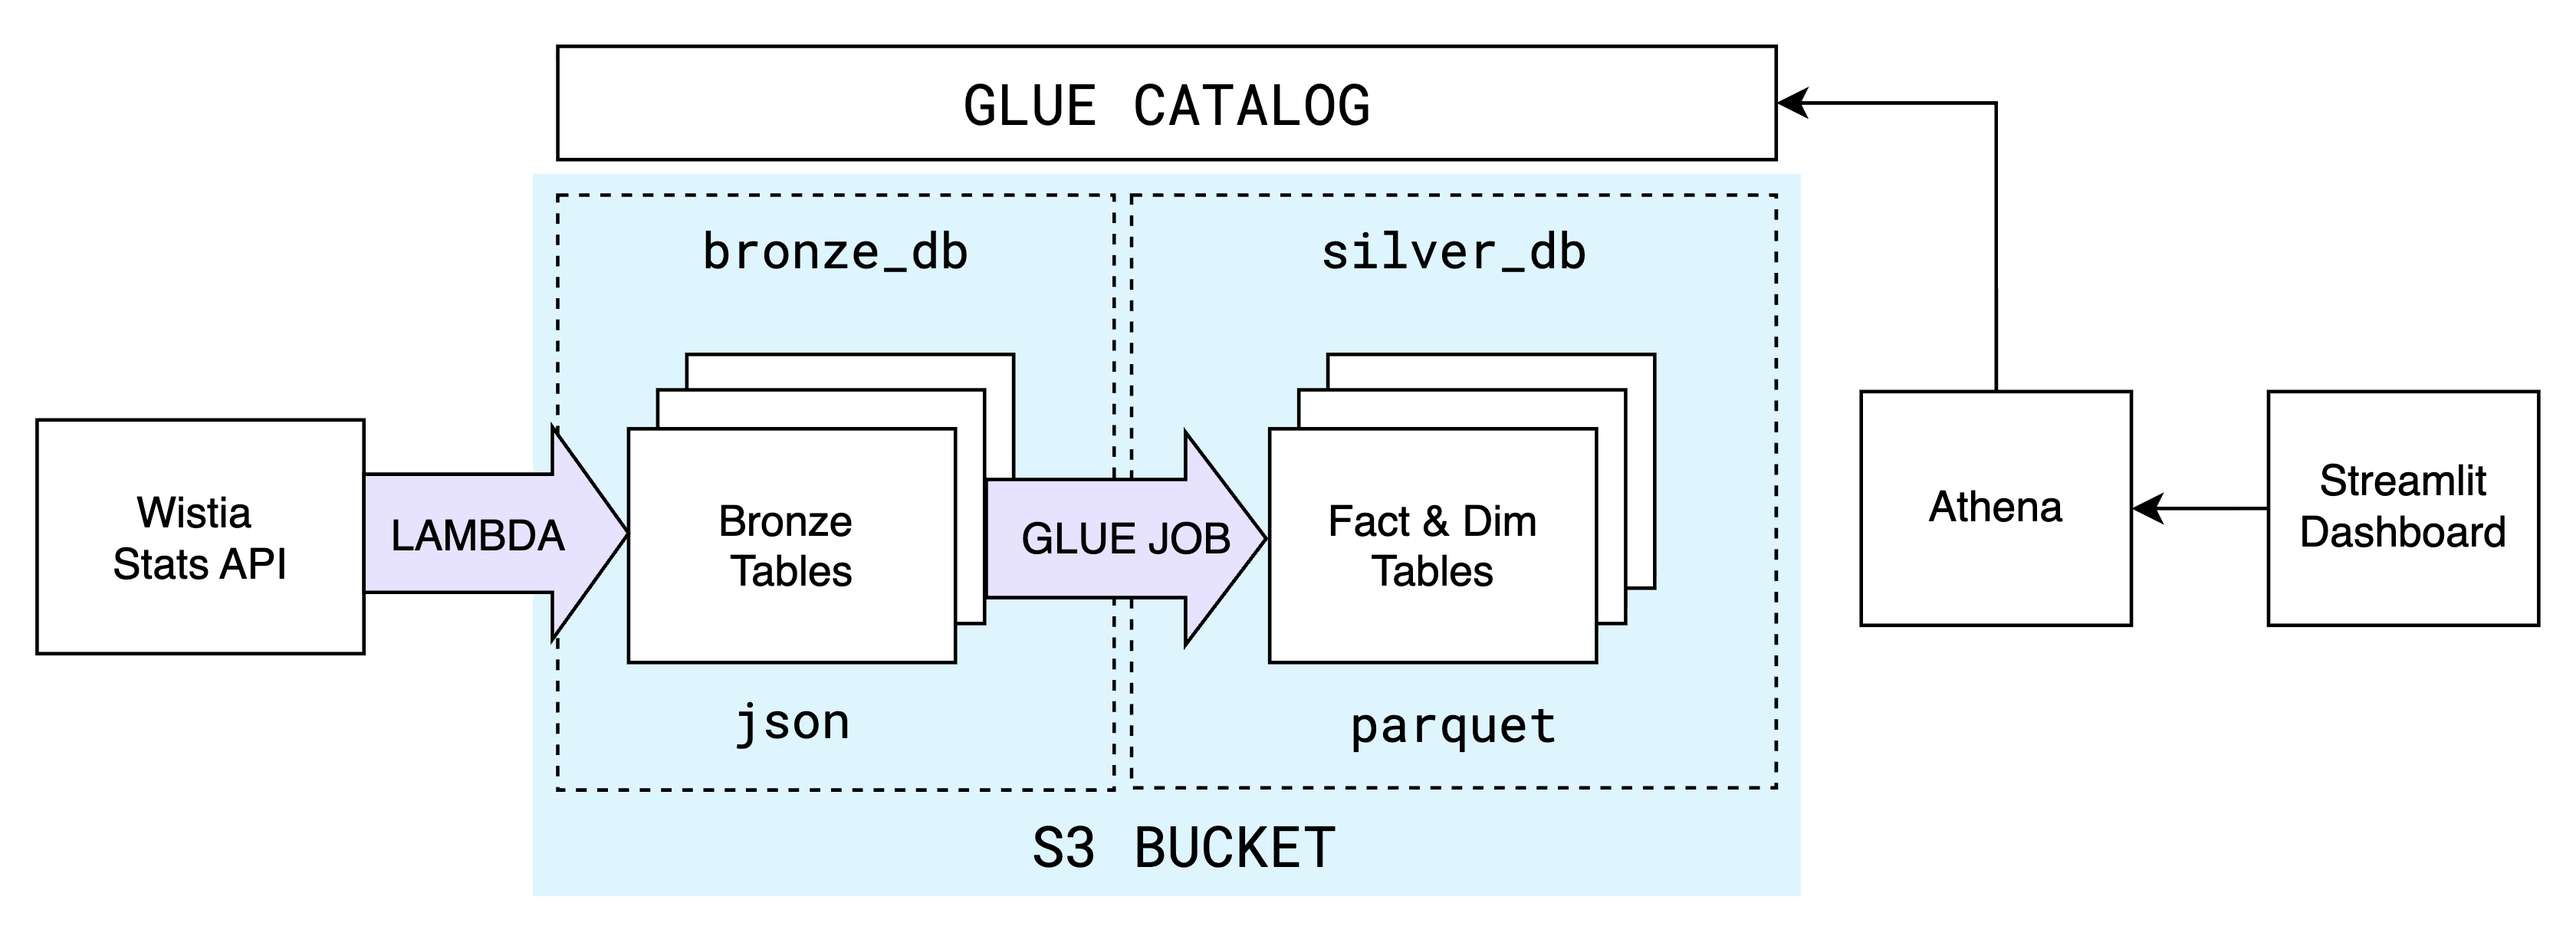
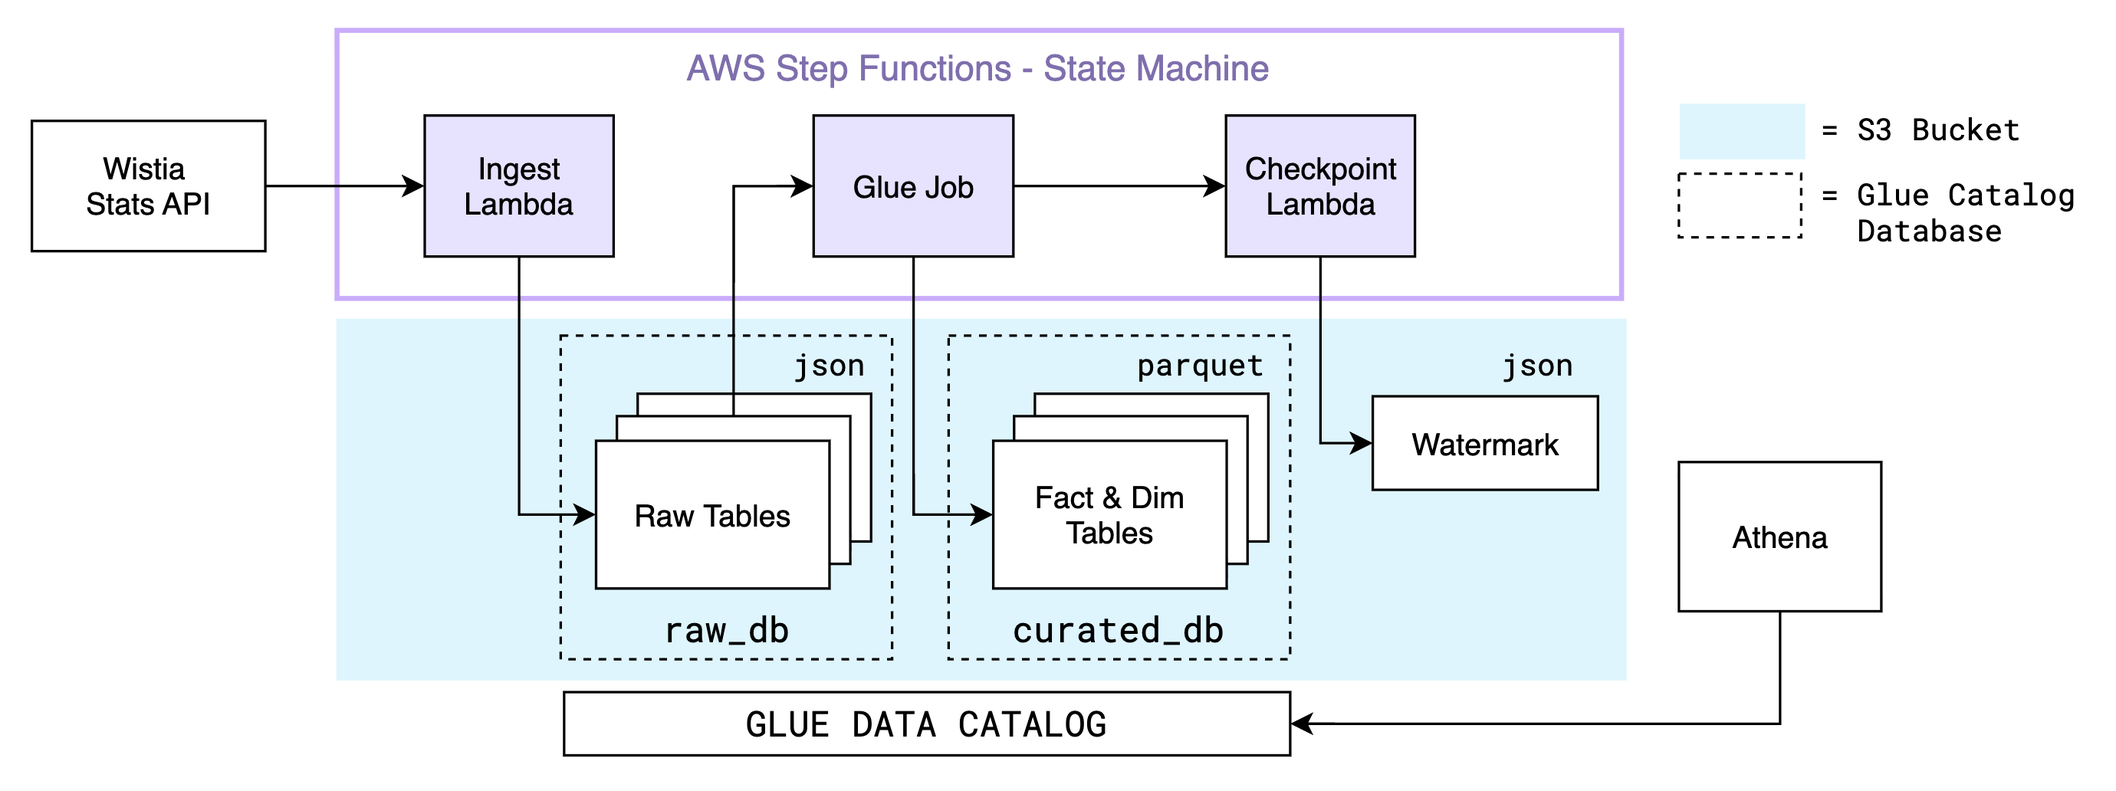
update README.md to clarify storage layout and ingestion process; add failure handling and deployment instructions

diff --git a/README.md b/README.md
@@ -20,50 +20,79 @@ Outputs:
 ## Architecture
 ![](docs/ws_arch.png)
 
-#### **Storage layout**
+#### Storage layout
 
 * Directories in S3 bucket
-  * `data/raw/`: landing area for data ingested from Wistia API stored as JSON files
-  * `data/curated/`: parquet files registered as external tables in Glue
+  * `raw/`: landing area for data ingested from Wistia API stored as JSON files
+  * `tables/`: curated parquet datasets (registered as Glue external tables)
   * `state/`: json file tracking watermark for incremental ingestion
 * Glue Data Catalog databases
   * `raw`: landing/staging tables registered over raw JSON
   * `curated`: parquet fact & dimension tables used for analytics
 
-#### **Ingestion**
+#### Ingestion
 
-* Lambda function `wistia_to_s3` ingests incrementally from Wistia Stats API
-  * Authenticates to Wistia API via token stored in AWS Secrets Manager
-  * Incrementally extract data via Wistia Stats API, paginates to fetch all pages
-    * Media metadata (title, ID, hashed_id, created_at, etc.)
-    * Engagement metrics (plays, play rate, watch time, etc.)
-    * Visitor-level data (IP, engagement events)
-  * Implements incremental ingestion based on created_at/updated_at
-  * Implements retries with backoff for API requests
-  * Loads extracted data into S3 raw landing zone w/ added metadata columns
+* `wistia_to_s3` (Lambda)
+  * Authenticates via token in AWS Secrets Manager
+  * Fetches visitor-level data, engagement metrics, and media metadata (paginated)
+  * Uses `created_at`/`updated_at` for incremental ingestion; retries API requests with exponential backoff
+  * Writes raw JSON + ingestion metadata to `raw/`
+* `wistia_commit_checkpoint` (Lambda)
+  * Persists the updated watermark (`new_last_run_ts`) to `state/`
 
-#### **Glue ETL Jobs**
+#### Glue ETL Job
+* Glue job (PySpark) incrementally processes `raw/` JSON and writes curated Parquet datasets to `tables/`, updating `curated` tables in the Glue Data Catalog
 
-* Job: Incrementally processes raw JSON data using PySpark and updates curated tables in Glue Data Catalog
+#### Orchestration
+EventBridge triggers a Step Functions state machine that runs:
+1. `wistia_to_s3` (Lambda): ingest to `raw/` and compute incremental parameters
+2. `ws-raw-to-curated` (Glue): build and update curated tables (runs with the computed `start_date` when incremental)
+3. `wistia_commit_checkpoint` (Lambda): persist `new_last_run_ts` only after Glue job succeeds
 
-#### **Orchestration**
+Step Functions provides state passing, retries/timeouts, and centralized execution-level observability.
 
-* EventBridge scheduled rule triggers Step functions workflow (including lambda + Glue ETL job) once a day
+#### Consumption
 
-#### **Consumption**
-
-* Athena queries the curated Glue Catalog tables, which implement the dimensional data model described below
+* Athena queries curated Glue Catalog tables (dimensional model described below)
 
 ## Execution
-- (One-time setup) Execute DDL generated by `setup/create_tables.py` in Athena to create tables in Glue Data Catalog
-- Execute pipeline via Step Functions (see Appendix below)
-- Run parameters for Lambda function:
-  - `--PIPELINE_MODE` (`full` or `incremental`)
-- Lambda function outputs `start_date`, `end_date`, and `new_last_run_ts`
-- CommitCheckpoint Lambda input supports `persist_state` (`true` or `false`) to skip writing when needed (set on the Step Functions execution input)
-- Run parameters for Glue job:
-  - `--PIPELINE_MODE` (`full` or `incremental`)
-  - `--START_DATE` (`YYYY-MM-DD`, used when `--PIPELINE_MODE=incremental`)
+- **One-time setup**: execute Athena DDL generated by `setup/create_tables.py` to create external tables in the Glue Data Catalog.
+- **Run the pipeline**: start a Step Functions execution (see Appendix).
+- **Step Functions execution input**:
+  - `pipeline_mode`: `full` | `incremental` (passed to `wistia_to_s3`)
+  - `persist_state`: `true` | `false` (controls whether `wistia_commit_checkpoint` writes the watermark)
+
+## Failure handling
+- Ingestion retries: transient Wistia API errors retry with backoff; non-retryable errors fail the execution.
+- Glue failures: Glue runs synchronously; failures fail the execution and block checkpoint commit.
+- Safe re-runs: `raw/` is append-only. The incremental checkpoint is written only after Glue succeeds, so failures do not advance the watermark.
+- Operator action: fix the issue, then re-run the Step Functions execution.
+
+## Deploy
+
+### Deploy AWS resources
+```bash
+cd infra
+terraform init
+terraform apply
+```
+Terraform outputs `AWS_GITHUB_ROLE_ARN` for repo secret
+
+## CI/CD
+- CI: Installs Lambda deps + runs syntax checks
+- CD: Runs on push to `main` and deploys both Lambda functions via `deploy.sh`:
+    - Build zip file with lambda files, dependencies
+    - Upload to `s3://<bucket>/lambda/`
+    - Update the Lambda function code
+
+### Deploy Lambda functions manually
+```
+cd ingest
+chmod +x deploy.sh
+./deploy.sh wistia_to_s3
+./deploy.sh wistia_commit_checkpoint
+```
+
 
 ## Project Files
 ```
@@ -76,7 +105,9 @@ Outputs:
 │   └── main.tf
 ├── ingest
 │   ├── config.py
+│   ├── commit_checkpoint.py
 │   ├── lambda_function.py
+│   ├── deploy.sh
 │   ├── wistia_to_s3.py
 │   ├── requirements-lambda.txt
 │   ├── .env.example
@@ -96,8 +127,9 @@ Outputs:
 
 - `setup/*` generates DDL to run in Athena to create external tables in Glue Data Catalog
 - `ingest/*` defines the lambda function `wistia_to_s3` that incrementally ingests from Wistia API to `/raw` directory in S3
+- `ingest/commit_checkpoint.py` writes the ingestion checkpoint after Glue succeeds
 - `jobs/*` defines the glue pyspark job to build the curated layer of this pipeline
-- `.github/worklows/*` defines continuous integration and deployment YAML for Github Actions
+- `.github/workflows/*` defines continuous integration and deployment YAML for Github Actions
 - `infra/main.tf` terraform script used to create lambda function, glue job, step function state machine, eventbridge scheduler, and IAM roles
 - Additional files for local development
   - `.env` (see `.env.example`) - environment variables for local development and testing
@@ -115,6 +147,9 @@ Outputs:
 ```json
 {
   "Comment": "ws-ingest lambda -> ws-glue job",
+  "Input": {
+    "persist_state": true
+  },
   "StartAt": "IngestLambda",
   "States": {
     "IngestLambda": {
